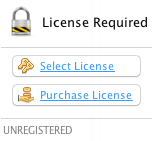
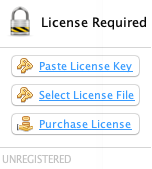
Update post-checkout help page

diff --git a/www.filebot.net/purchase.html b/www.filebot.net/purchase.html
@@ -31,7 +31,7 @@
 
 			<div class="content">
 				<div class="screenshot" style="background-color: white; padding: 0px 0px 0px 0px">
-					<img alt="screenshot" src="screenshots/license.png" width="152" height="141">
+					<img alt="screenshot" src="screenshots/license.png" width="152" height="169">
 				</div>
 				<div class="section about">
 					<h2>Buy a License</h2>
@@ -59,8 +59,8 @@
 					</ul>
 				</div>
 
-				<p class="suggestion" style="margin-top: 250px">
-				Need some help getting started? Join the <a href="https://www.filebot.net/forums/viewforum.php?f=8">forums</a> and ask.
+				<p class="suggestion" style="margin-top: 120px; margin-bottom: 20px">
+				Please read to <a href="https://www.filebot.net/activate.html">How do I activate my license?</a> for details on license activation.
 				</p>
 
 				<div class="footer">
